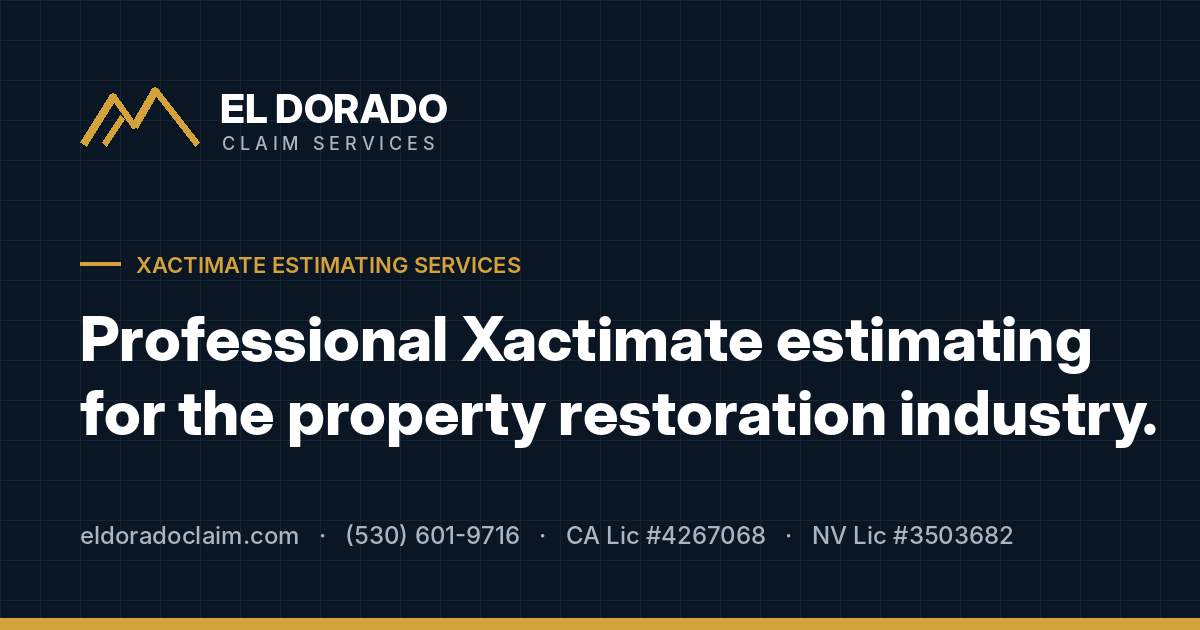
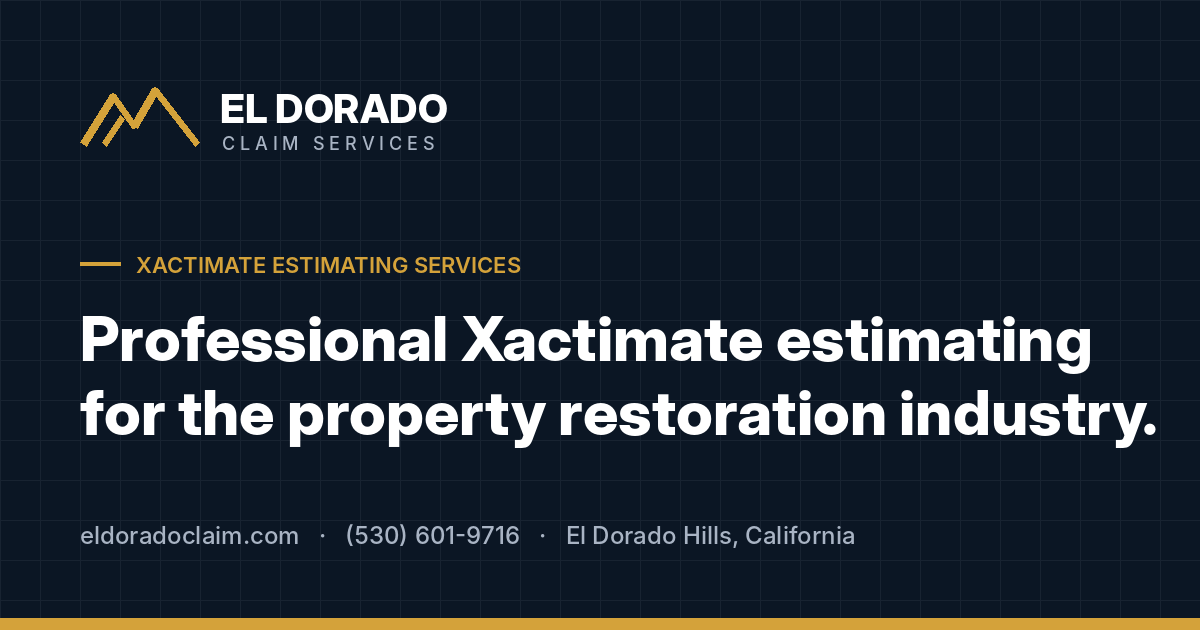
Remove adjuster license numbers from the site
The CA and NV license numbers belong to Brian's independent adjusting
work, not the estimating business.

- Credentials bar: license numbers replaced with "Based in El Dorado Hills, CA"
- Hero checkmark: "Licensed in California and Nevada" -> "Sketch and photo report included"
- Why section: "Licensed" card -> "Field experience"
- Footer and meta description: license references removed
- og-image.png regenerated without license numbers
- README content rules updated

Claude-Session: https://claude.ai/code/session_0186hAAxrmp8UemibB3zkuR1

Changed region(s): [[0.4625, 0.8143, 0.8633, 0.8746]]

diff --git a/index.html b/index.html
@@ -4,7 +4,7 @@
 <meta charset="utf-8">
 <meta name="viewport" content="width=device-width, initial-scale=1">
 <title>Xactimate Estimating Services | El Dorado Claim Services</title>
-<meta name="description" content="Professional Xactimate estimates for contractors, restoration firms, roofers, and property owners. Prepared by a licensed field adjuster in El Dorado Hills, California.">
+<meta name="description" content="Professional Xactimate estimates for contractors, restoration firms, roofers, and property owners. Prepared in El Dorado Hills, California.">
 <meta property="og:title" content="El Dorado Claim Services | Xactimate Estimating">
 <meta property="og:description" content="Accurate, fully documented Xactimate estimates for contractors, restoration firms, and property owners in Northern California, Southern Oregon, and Nevada.">
 <meta property="og:type" content="website">
@@ -79,7 +79,7 @@ input,select,textarea{font:inherit}
 <div style="display: flex; flex-wrap: wrap; gap: 28px; padding-top: 12px; font-size: 14px; color: #A9B4C4">
 <span style="display: flex; align-items: center; gap: 8px"><svg width="16" height="16" viewBox="0 0 24 24" fill="none" stroke="#D4A23A" stroke-width="2" aria-hidden="true"><path d="M20 6 9 17l-5-5"></path></svg>PDF and ESX deliverables</span>
 <span style="display: flex; align-items: center; gap: 8px"><svg width="16" height="16" viewBox="0 0 24 24" fill="none" stroke="#D4A23A" stroke-width="2" aria-hidden="true"><path d="M20 6 9 17l-5-5"></path></svg>Residential and commercial</span>
-<span style="display: flex; align-items: center; gap: 8px"><svg width="16" height="16" viewBox="0 0 24 24" fill="none" stroke="#D4A23A" stroke-width="2" aria-hidden="true"><path d="M20 6 9 17l-5-5"></path></svg>Licensed in California and Nevada</span>
+<span style="display: flex; align-items: center; gap: 8px"><svg width="16" height="16" viewBox="0 0 24 24" fill="none" stroke="#D4A23A" stroke-width="2" aria-hidden="true"><path d="M20 6 9 17l-5-5"></path></svg>Sketch and photo report included</span>
 </div>
 </div>
 
@@ -97,8 +97,7 @@ input,select,textarea{font:inherit}
 <section aria-label="Credentials" style="background: #FFFFFF; border-bottom: 1px solid #E3E8EF">
 <div style="max-width: 1200px; margin: 0 auto; padding: 28px 24px; display: flex; flex-wrap: wrap; justify-content: space-between; gap: 20px 40px; font-size: 14px; font-weight: 600; color: #3A4A5E">
 <span>Xactimate estimating since 2016</span>
-<span>CA Lic #4267068</span>
-<span>NV Lic #3503682</span>
+<span>Based in El Dorado Hills, CA</span>
 <span>Field service: CA · OR · NV</span>
 <span>Desk estimates nationwide</span>
 </div>
@@ -225,7 +224,7 @@ input,select,textarea{font:inherit}
 <div style="background: #F3F5F8; border-radius: 14px; padding: 26px; display: flex; flex-direction: column; gap: 8px"><h3 style="margin: 0; font-family: Archivo, sans-serif; font-size: 18px; font-weight: 700">Complete scope</h3><p style="margin: 0; font-size: 15px; line-height: 1.55; color: #4A5A6E">Each line item's included work and companion items are verified to ensure a complete scope.</p></div>
 <div style="background: #F3F5F8; border-radius: 14px; padding: 26px; display: flex; flex-direction: column; gap: 8px"><h3 style="margin: 0; font-family: Archivo, sans-serif; font-size: 18px; font-weight: 700">Defensible notes</h3><p style="margin: 0; font-size: 15px; line-height: 1.55; color: #4A5A6E">Concise line-item notes support any item likely to receive scrutiny.</p></div>
 <div style="background: #F3F5F8; border-radius: 14px; padding: 26px; display: flex; flex-direction: column; gap: 8px"><h3 style="margin: 0; font-family: Archivo, sans-serif; font-size: 18px; font-weight: 700">Accurate sketches</h3><p style="margin: 0; font-size: 15px; line-height: 1.55; color: #4A5A6E">Rooms, openings, and fixtures are drawn precisely so quantities are correct.</p></div>
-<div style="background: #F3F5F8; border-radius: 14px; padding: 26px; display: flex; flex-direction: column; gap: 8px"><h3 style="margin: 0; font-family: Archivo, sans-serif; font-size: 18px; font-weight: 700">Licensed</h3><p style="margin: 0; font-size: 15px; line-height: 1.55; color: #4A5A6E">CA Lic #4267068 · NV Lic #3503682.</p></div>
+<div style="background: #F3F5F8; border-radius: 14px; padding: 26px; display: flex; flex-direction: column; gap: 8px"><h3 style="margin: 0; font-family: Archivo, sans-serif; font-size: 18px; font-weight: 700">Field experience</h3><p style="margin: 0; font-size: 15px; line-height: 1.55; color: #4A5A6E">Residential and commercial losses inspected and estimated in the field since 2016.</p></div>
 </div>
 </div>
 </section>
@@ -295,7 +294,7 @@ input,select,textarea{font:inherit}
 
 <footer style="background: #070F19; color: #8A97A8; padding: 40px 24px">
 <div style="max-width: 1200px; margin: 0 auto; display: flex; flex-direction: column; gap: 12px; font-size: 13px; line-height: 1.6">
-<span style="color: #C3CCD8; font-weight: 600">© 2026 El Dorado Claim Services · CA Lic #4267068 · NV Lic #3503682</span>
+<span style="color: #C3CCD8; font-weight: 600">© 2026 El Dorado Claim Services · El Dorado Hills, California</span>
 <span>El Dorado Claim Services provides estimating services only and does not negotiate or settle insurance claims on behalf of policyholders.</span>
 <span>Xactimate is a registered trademark of Verisk Analytics, Inc.</span>
 </div>
